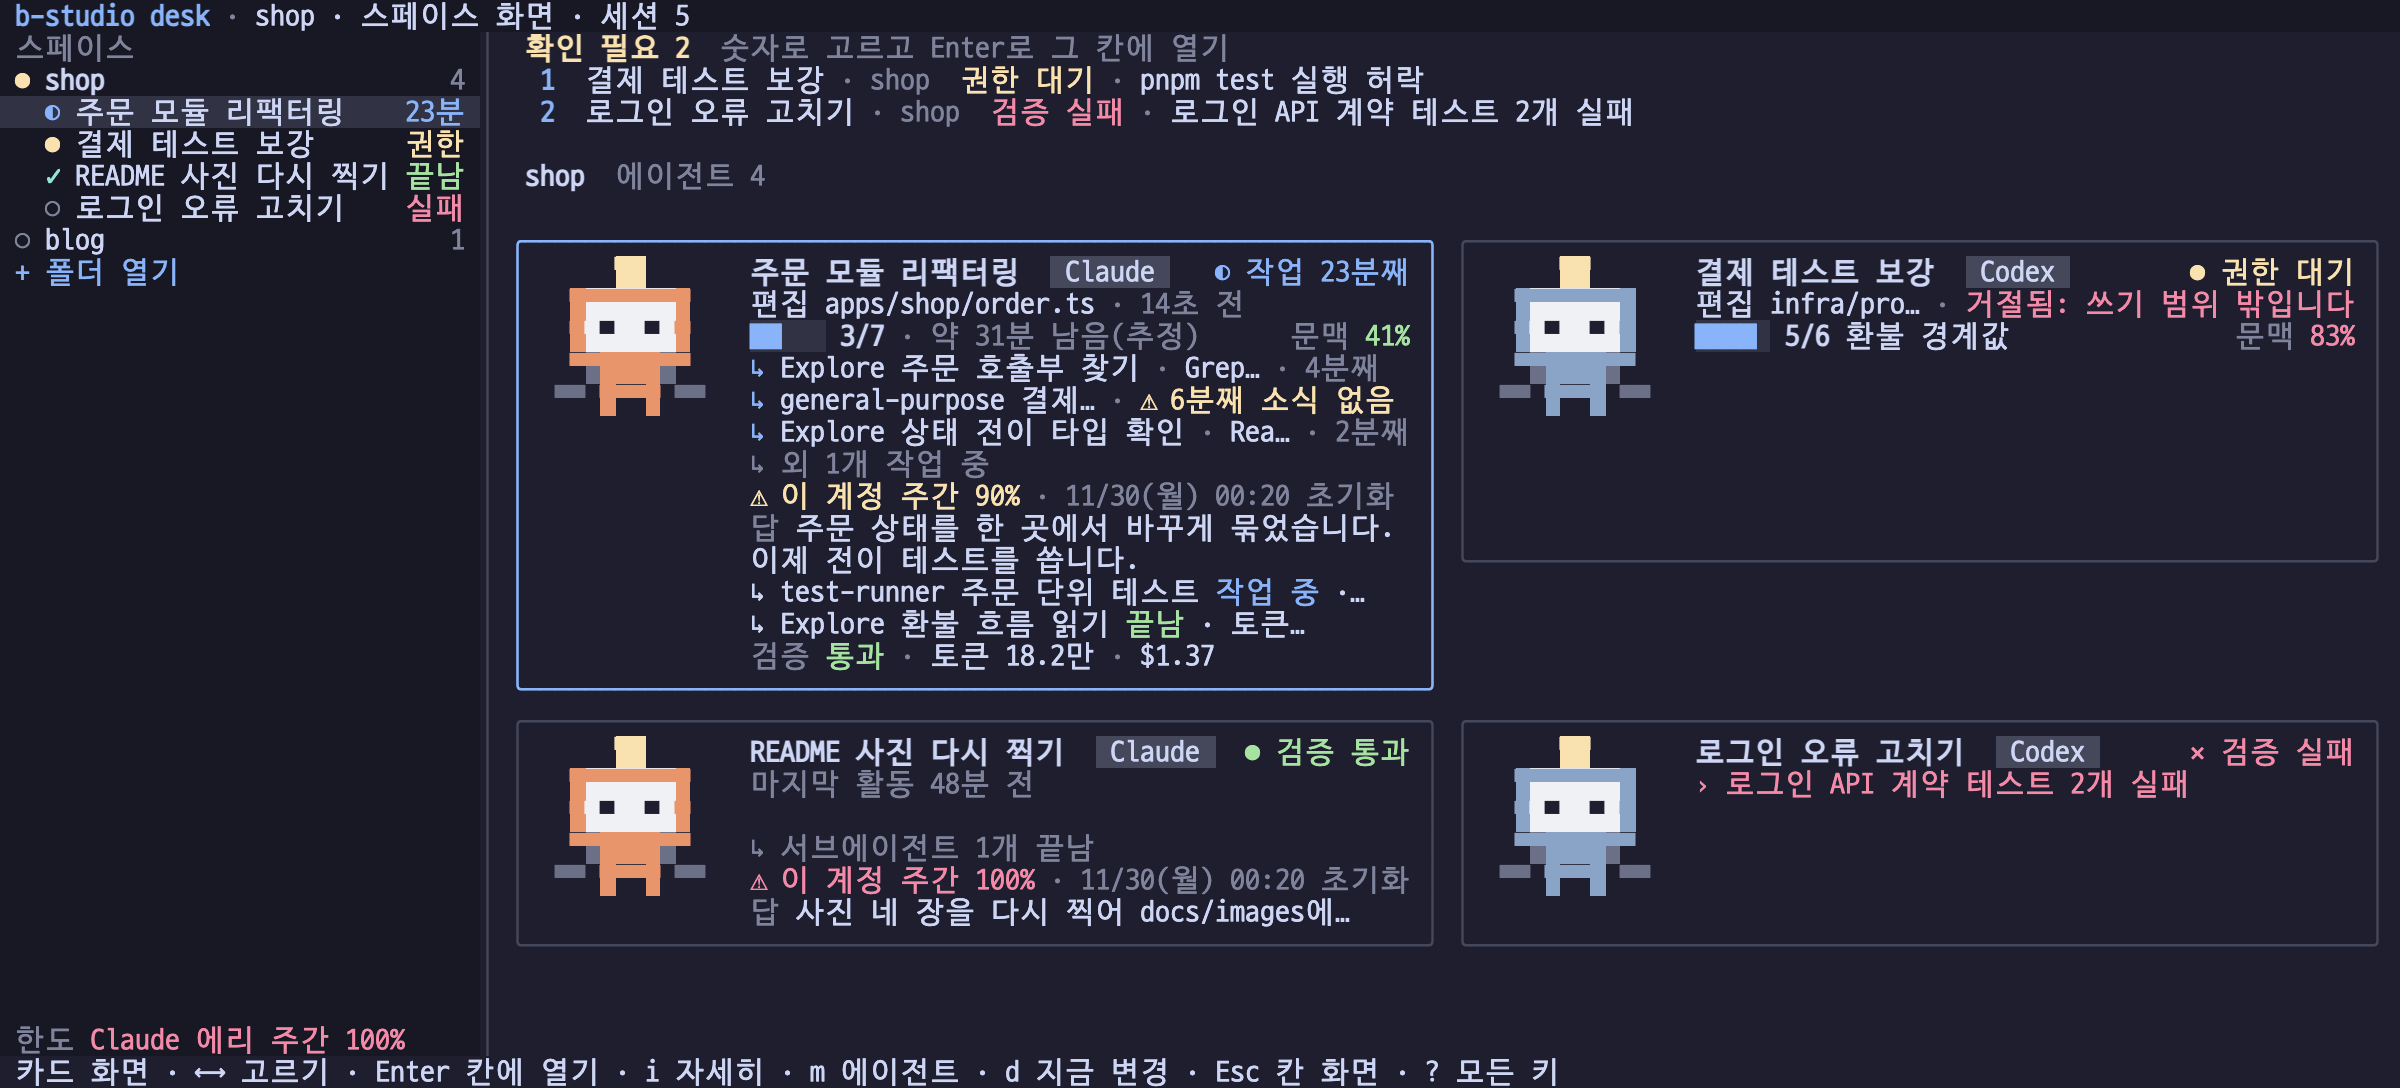
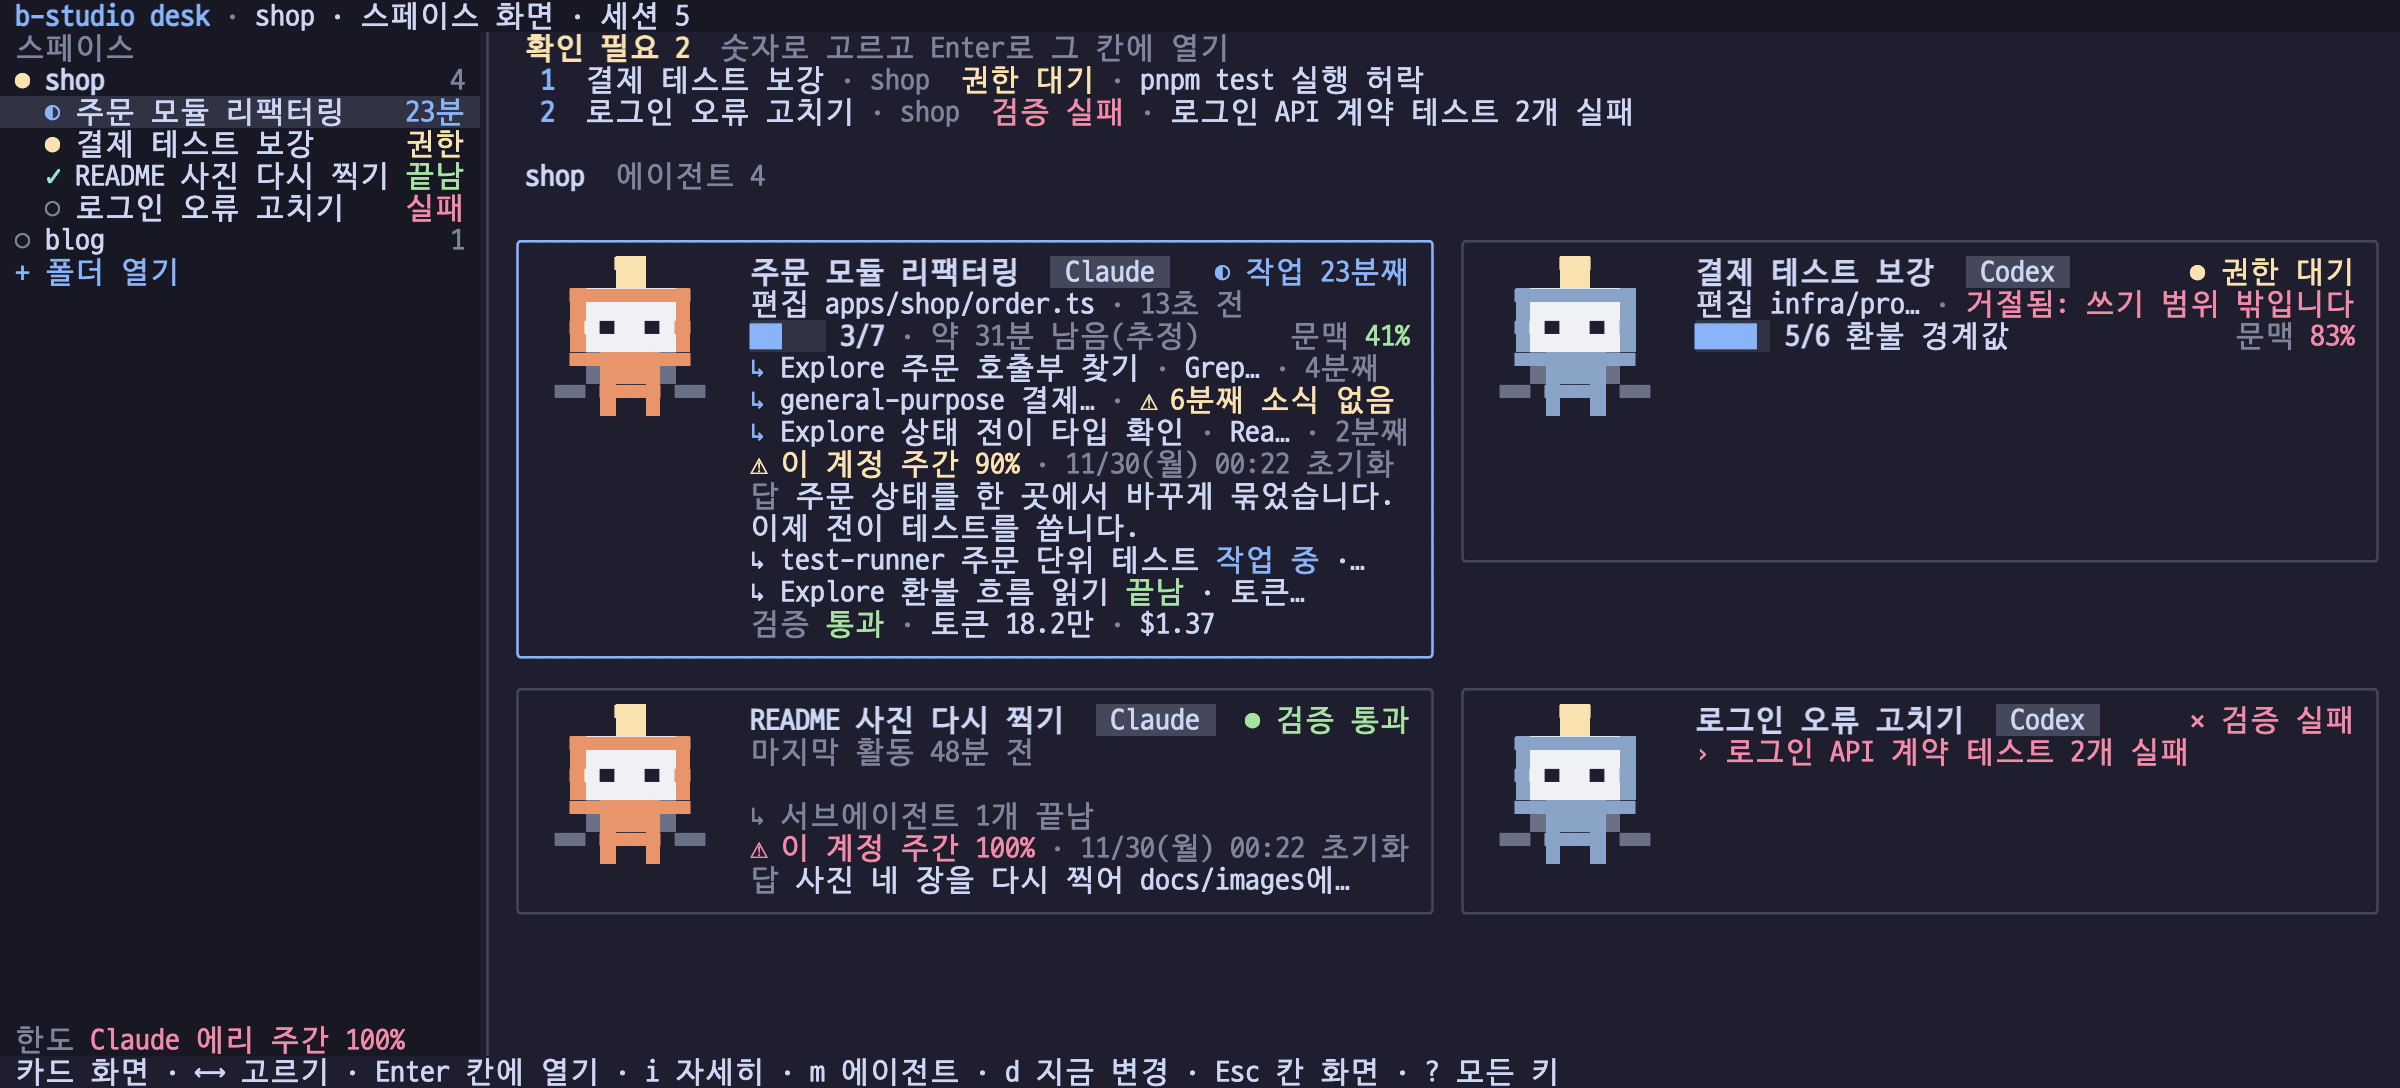
fix(desk): 고른 카드는 펼친 줄이 나머지 서브에이전트를 보이므로 외 N개 줄을 두지 않는다 (#1408)

Changed region(s): [[0.2188, 0.4062, 1.0, 0.875]]

diff --git a/apps/cli/src/desk/cards.ts b/apps/cli/src/desk/cards.ts
@@ -372,7 +372,8 @@ function subagentLines(item: DeskItem, width: number, theme: Theme, now: number,
       theme,
     );
   });
-  if (working.length > SUBAGENT_SHOWN) lines.push(compose([{ text: `↳ 외 ${working.length - SUBAGENT_SHOWN}개 작업 중`, color: 'muted' }], width, theme));
+  // 고른 카드는 넷째부터를 펼친 줄로 하나씩 보이므로 묶음 줄을 두지 않는다(같은 것을 두 번 세지 않는다)
+  if (working.length > SUBAGENT_SHOWN && !selected) lines.push(compose([{ text: `↳ 외 ${working.length - SUBAGENT_SHOWN}개 작업 중`, color: 'muted' }], width, theme));
   return lines;
 }
 

diff --git a/apps/cli/src/desk/cards-glance.test.ts b/apps/cli/src/desk/cards-glance.test.ts
@@ -105,6 +105,8 @@ describe('서브에이전트 줄', () => {
     // 카드 몸에 없는 넷째부터 펼친다
     expect(plain.filter((line) => line.includes('타입 찾기')).length).toBe(1);
     expect(plain.filter((line) => line.includes('설정 찾기')).length).toBe(1);
+    // 펼친 줄이 나머지를 하나씩 보이므로 "외 N개" 묶음 줄을 함께 두지 않는다(같은 것을 두 번 세지 않는다)
+    expect(plain.some((line) => line.includes('외 2개 작업 중'))).toBe(false);
   });
 });
 
